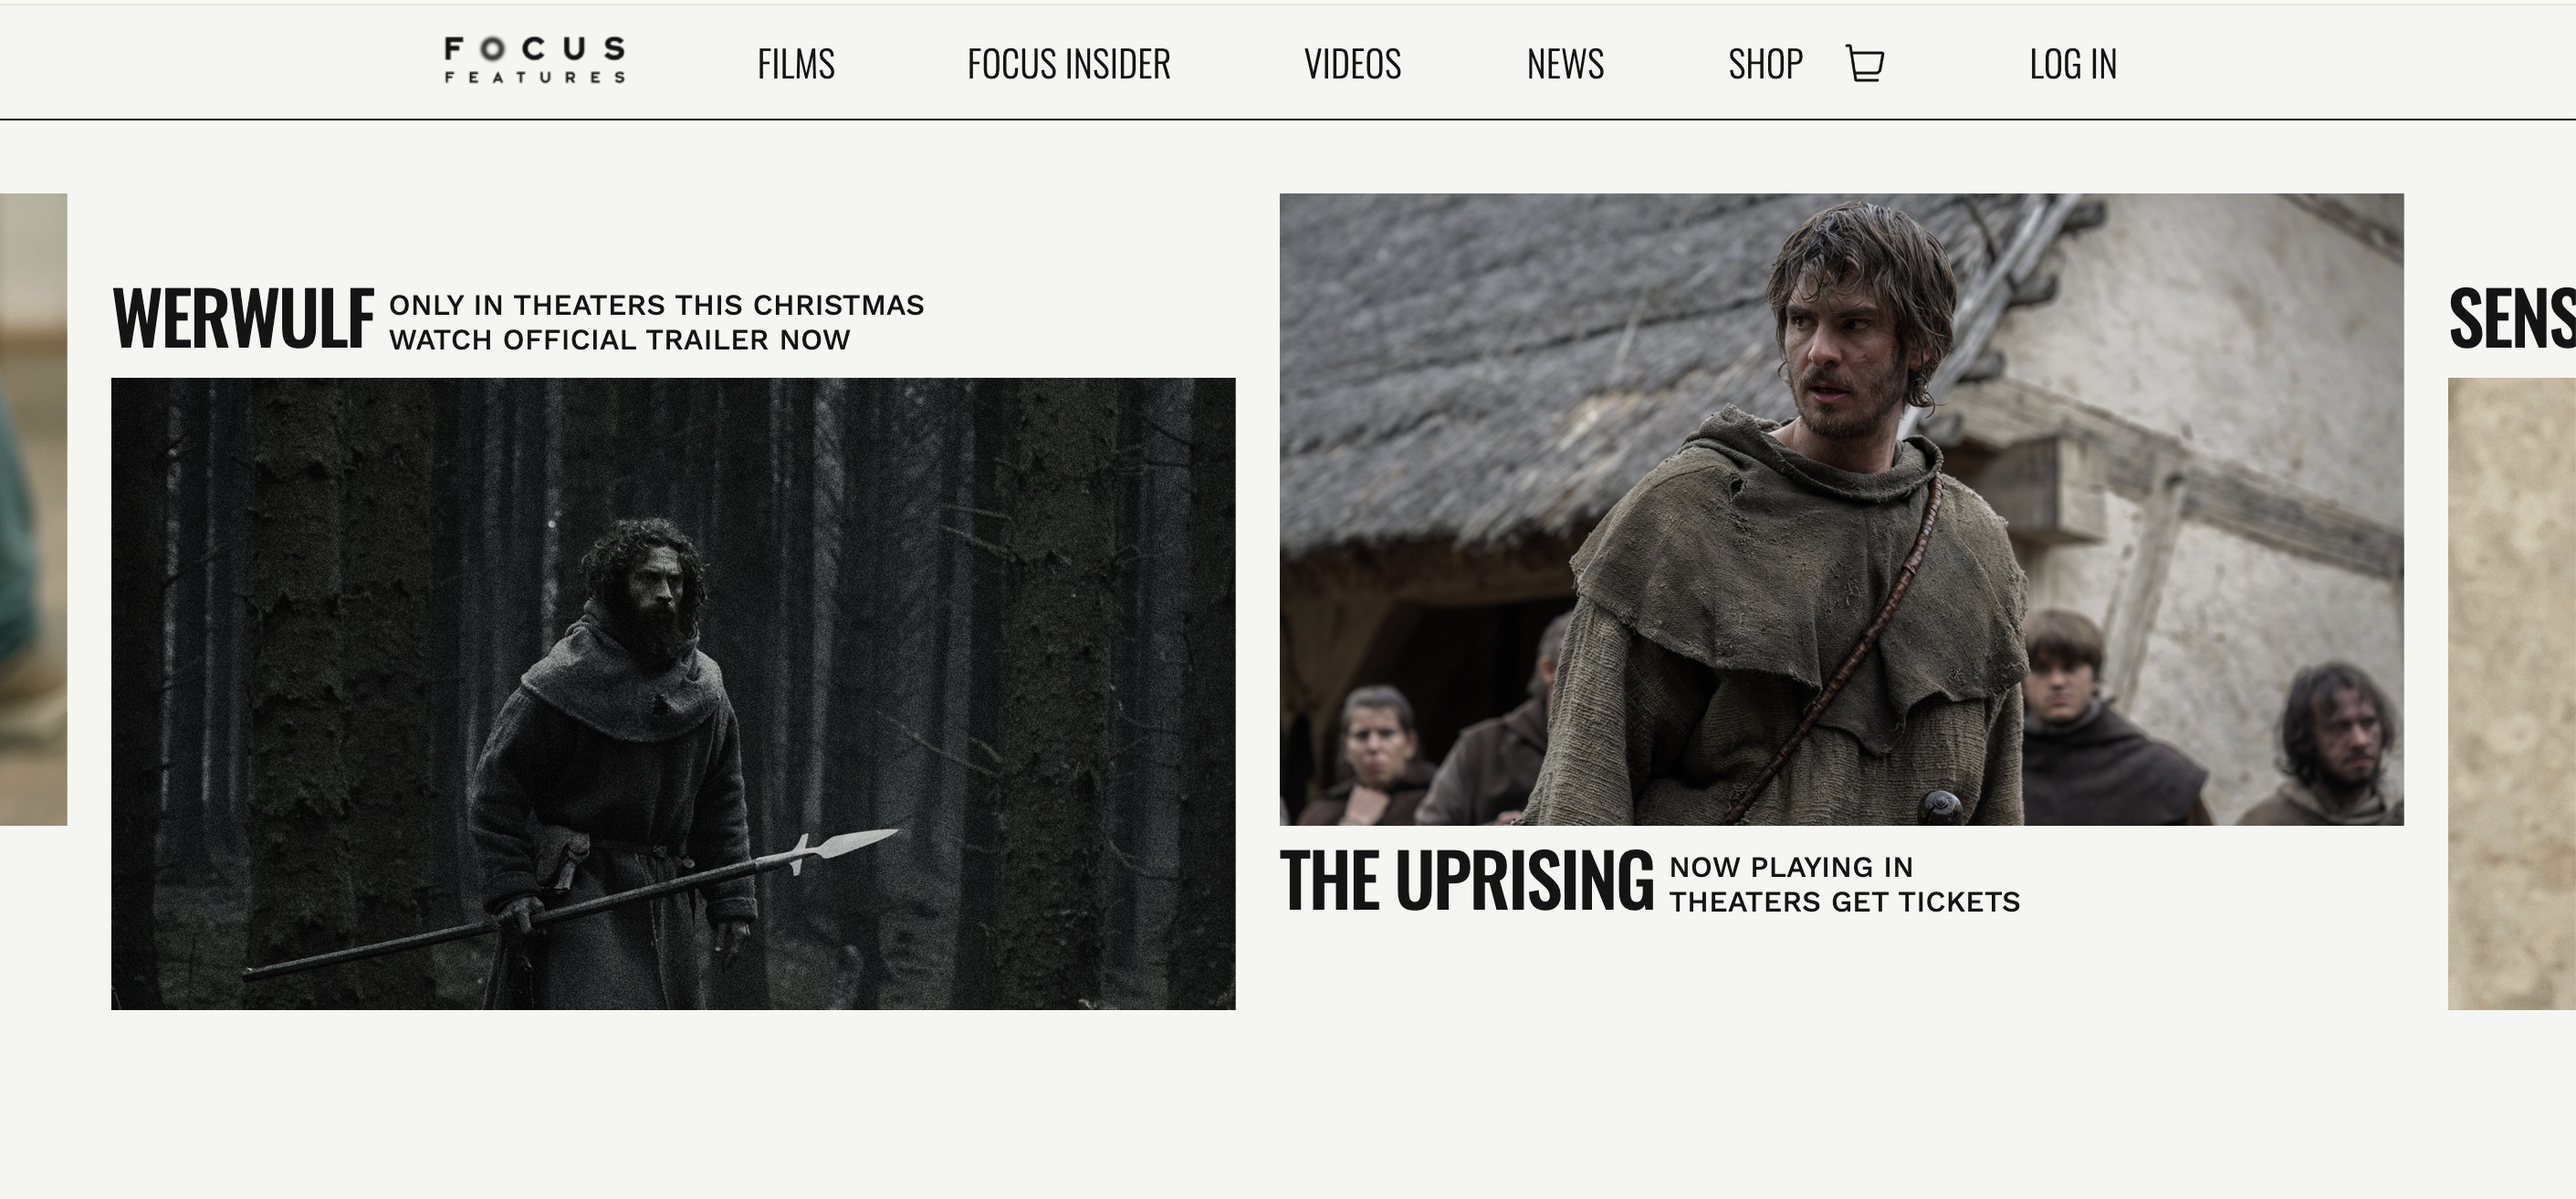
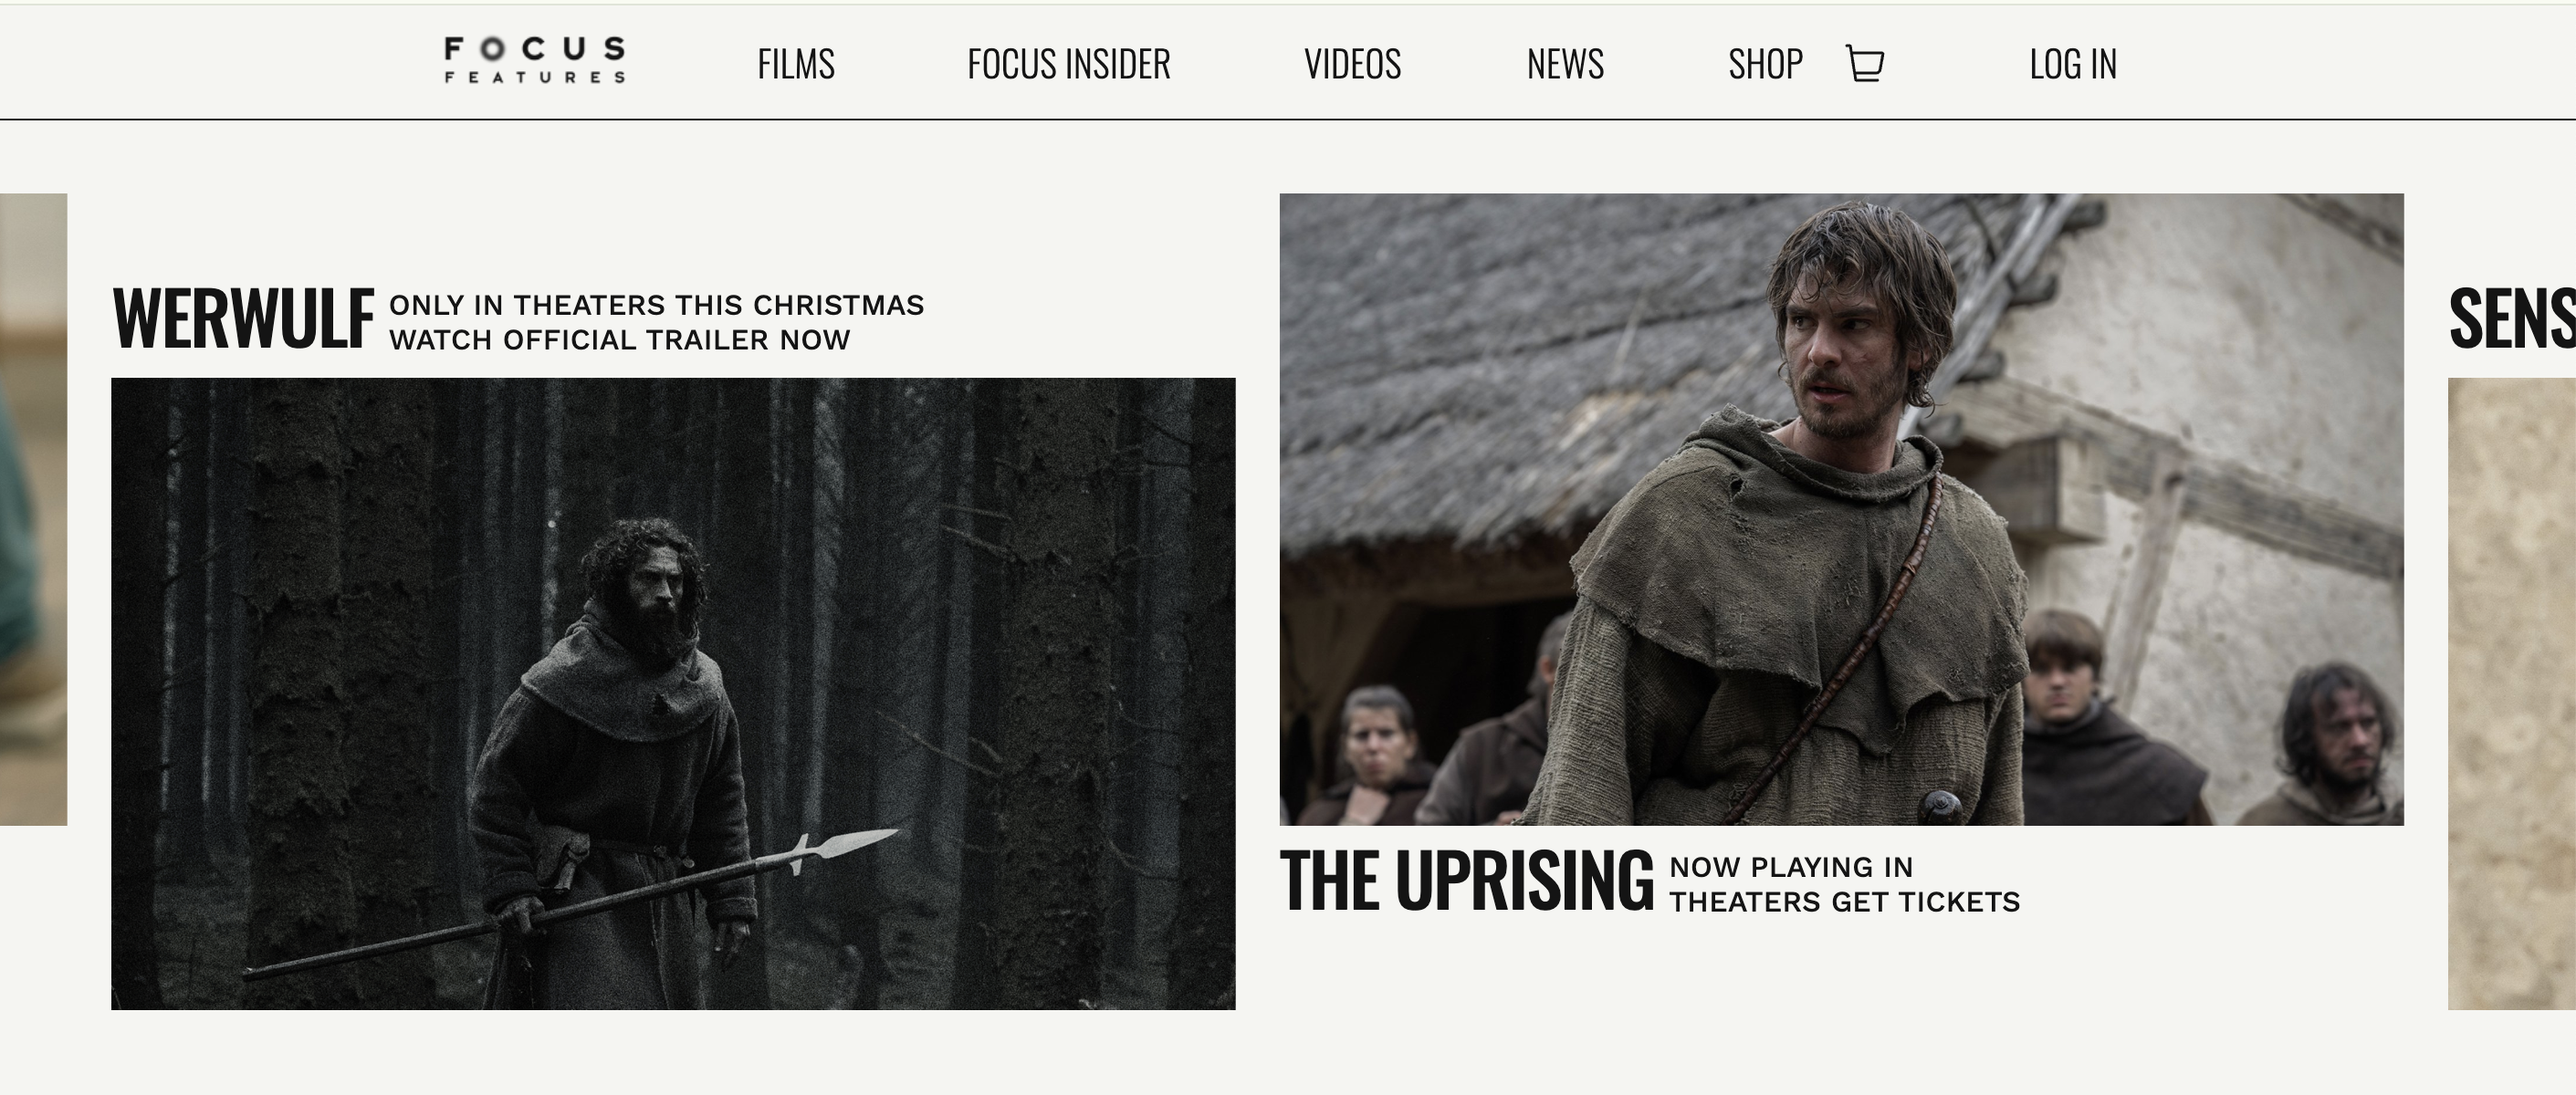
fix: crop Focus Features image and remove object-fit from Powster section
Trim bottom of Focus Features screenshot for cleaner proportions.
Remove fixed height and object-fit so images display naturally in
both side-by-side and stacked layouts.

diff --git a/index.html b/index.html
@@ -433,10 +433,10 @@
           </div>
           <div class="col-2">
             <div style="border: 1px solid var(--border); border-radius: 6px; overflow: hidden;">
-              <img src="assets/universal.png" alt="Universal Pictures website showing The Odyssey, now playing in theaters." loading="lazy" style="width: 100%; height: 280px; object-fit: cover; object-position: top; display: block;">
+              <img src="assets/universal.png" alt="Universal Pictures website showing The Odyssey, now playing in theaters." loading="lazy" style="width: 100%; display: block;">
             </div>
             <div style="border: 1px solid var(--border); border-radius: 6px; overflow: hidden;">
-              <img src="assets/focusfeatures.png" alt="Focus Features website showing Werwulf and The Uprising film listings." loading="lazy" style="width: 100%; height: 280px; object-fit: cover; object-position: top; display: block;">
+              <img src="assets/focusfeatures.png" alt="Focus Features website showing Werwulf and The Uprising film listings." loading="lazy" style="width: 100%; display: block;">
             </div>
           </div>
         </div>
